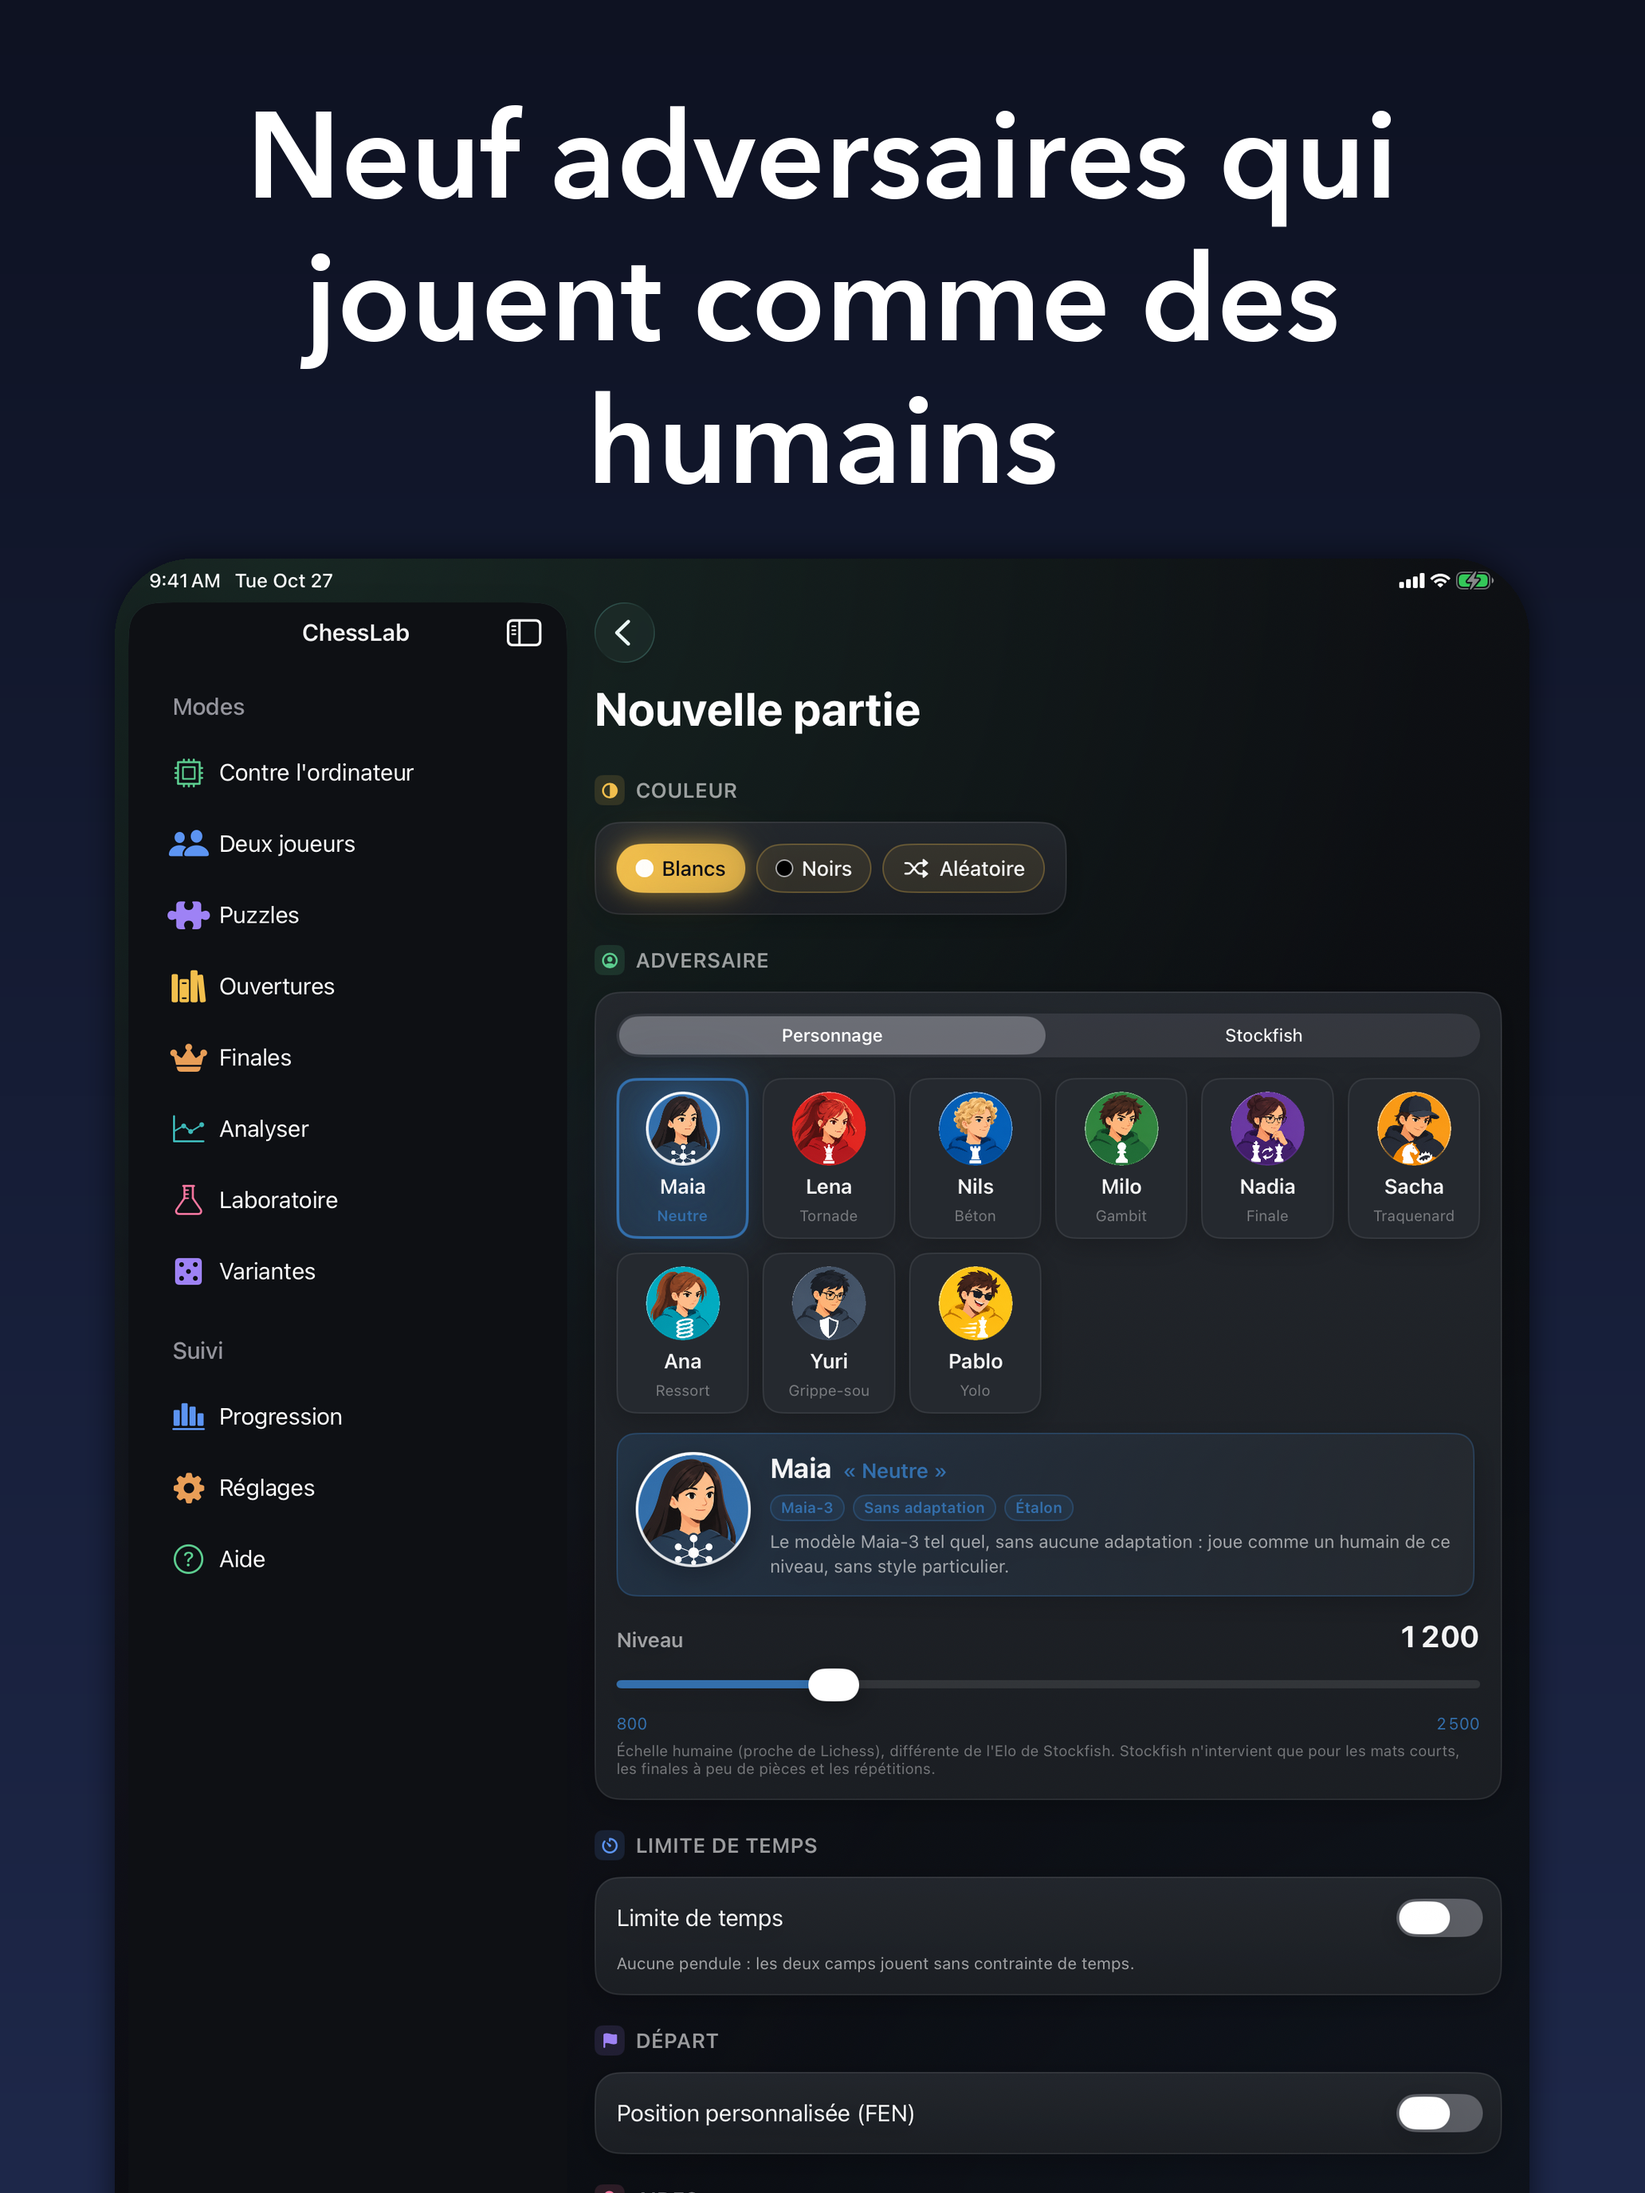
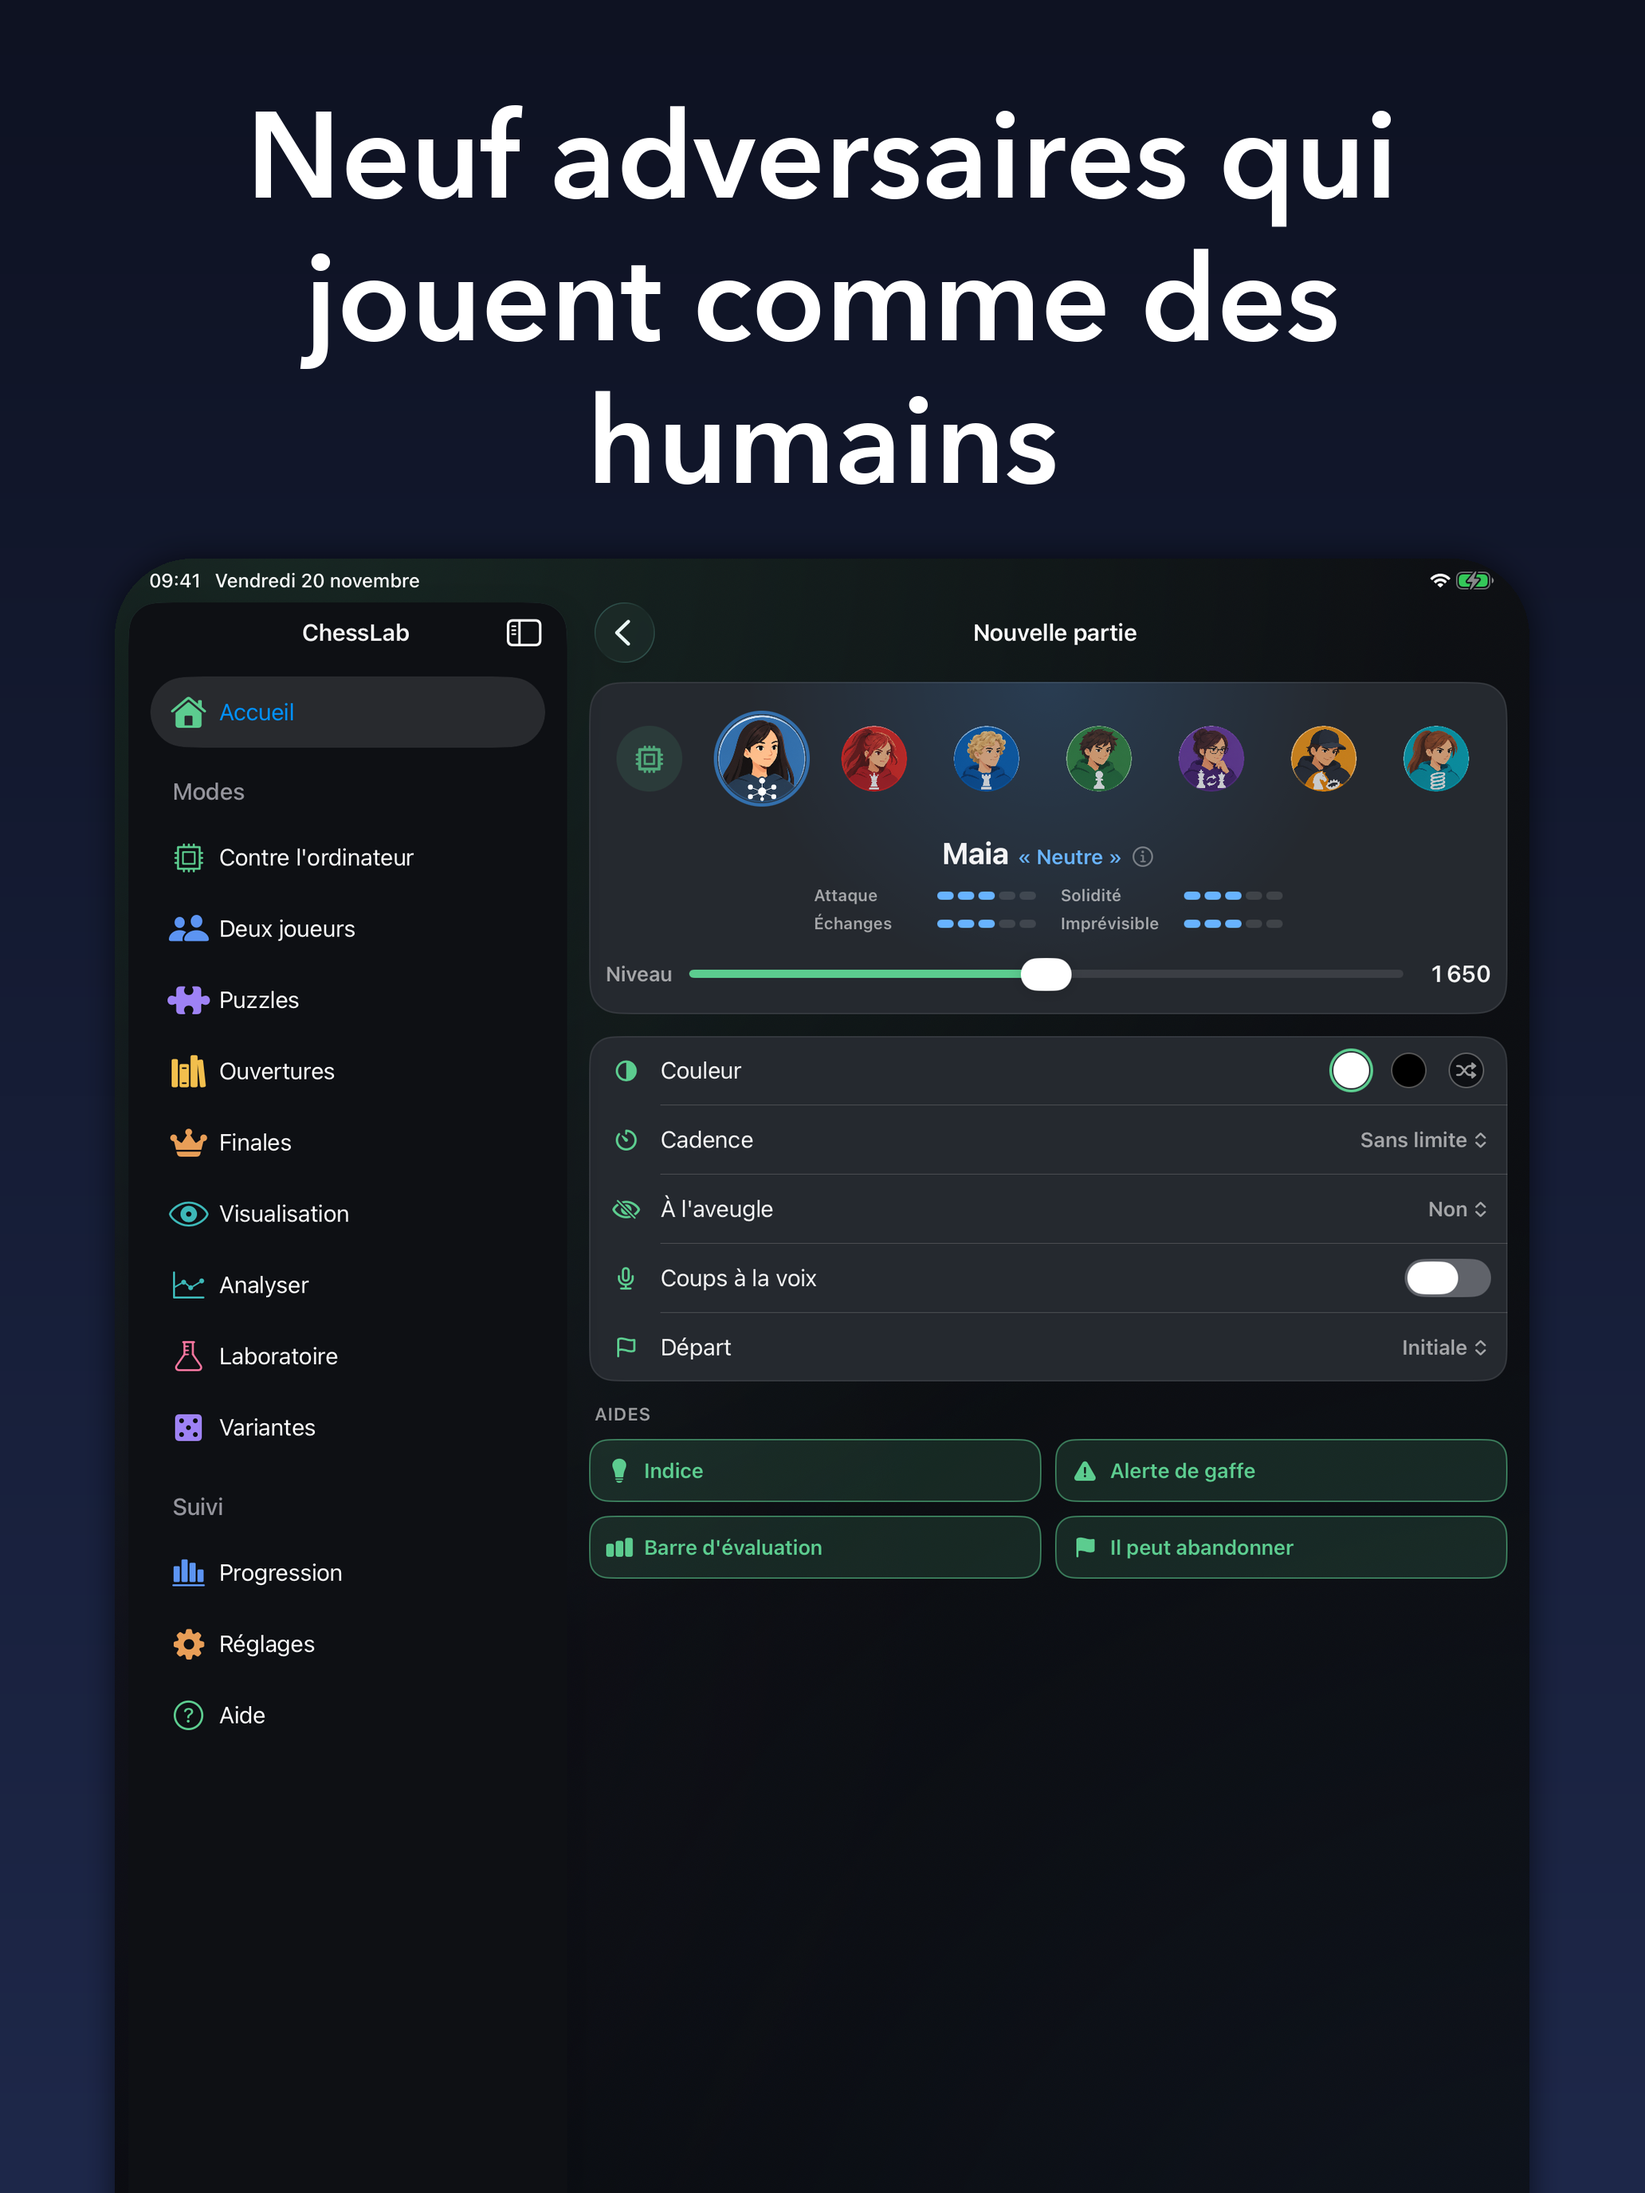
Fiche 2.4 : capture « 04-adversaires » refaite pour l'écran Nouvelle partie refondu (iPhone, iPad 13", Duo extérieur ; fr, en, es, de, it).
L'ancienne capture montrait l'écran d'avant la refonte du 18/11 (sections Couleur / Adversaire / Limite de temps). La nouvelle montre la bande de portraits, les quatre jauges, les menus et la ligne « Coups à la voix ». Prises par tools/captures-fiche.sh (route newGame) puis habillées par habiller-captures.py ; iPad remis à neuf et langue du système changée à chaque prise pour que la date de la barre d'état soit dans la langue ; Duo : écran extérieur désigné par son UUID.

Le simulateur Duo n'a pas de reconnaissance vocale en fr/it : la ligne « Coups à la voix » y paraissait grisée avec « Indisponible ». Ces captures (fr, de, it) ont été prises avec une construction de capture forçant « disponible » par un réglage de débogage, qui n'a PAS été commité ; en et es, où la reconnaissance existe, sont prises avec la construction normale.

Envoyées à App Store Connect (asc.py screenshots : 10 captures iPhone et 10 iPad dans les dix langues ; asc.py duo pour le Duo). Build 26 rattaché à la version 2.4, non soumise. Android : rien (version iOS).

Changed region(s): [[0.093, 0.25, 0.9302, 0.9688], [0.8372, 0.8438, 0.8992, 0.9062], [0.8372, 0.9375, 0.8992, 1.0]]

diff --git a/AppStoreSubmission/METADATA.md b/AppStoreSubmission/METADATA.md
@@ -492,7 +492,7 @@ Réponses déduites du code (vérifié, pas deviné) :
 
 ### Version et build
 
-**2.4, build 26** (le 25, téléversé le 19/11 sur TestFlight, est remplacé : il ne portait ni la fin de phrase lissée, ni l'essai anticipé, ni la pastille du micro, ni la ligne orange « Sous iOS 18… » ni les nouveautés 2.4 de l'Aide) — `MARKETING_VERSION = 2.4`, `CURRENT_PROJECT_VERSION = 26` (aux quatre configurations, app et extension de partage). La 2.3 (build 24) est en vente. Nouveautés détaillées dans `RELEASE_NOTES-2.4.md`.
+**2.4, build 26** (le 25, téléversé le 19/11 sur TestFlight, est remplacé : il ne portait ni la fin de phrase lissée, ni l'essai anticipé, ni la pastille du micro, ni la ligne orange « Sous iOS 18… » ni les nouveautés 2.4 de l'Aide) — `MARKETING_VERSION = 2.4`, `CURRENT_PROJECT_VERSION = 26` (aux quatre configurations, app et extension de partage). La 2.3 (build 24) est en vente. Nouveautés détaillées dans `RELEASE_NOTES-2.4.md`. **État au 20/11/2026 :** build 26 téléversé, traité et rattaché à la version 2.4 (PREPARE_FOR_SUBMISSION, NON soumise) ; il est aussi en TestFlight interne (groupe « Test ChessLab », distribution automatique). Captures « 04-adversaires » refaites (iPhone, iPad, Duo extérieur, cinq langues).
 
 **2.3, build 24** (le 23, téléversé le 14/11, est remplacé : il affichait « 2.3 » au-dessus des nouveautés 2.2 dans l'Aide) — `MARKETING_VERSION = 2.3`, `CURRENT_PROJECT_VERSION = 24` (aux quatre configurations, app et extension de partage ; la 2.2, build 22, est en vente : à revérifier par `asc.py build` avant l'archive). Nouveautés détaillées dans `RELEASE_NOTES-2.3.md`.
 

diff --git a/AppStoreSubmission/RELEASE_NOTES-2.4.md b/AppStoreSubmission/RELEASE_NOTES-2.4.md
@@ -19,7 +19,7 @@ Notes DÉTAILLÉES pour le dépôt. Les textes à coller dans App Store Connect 
 
 - Les textes es/de/it (fiche, aide, ligne orange) n'ont PAS été relus par un locuteur natif.
 - **Nouvelle autorisation** (micro, reconnaissance vocale) : décrite dans les notes de révision de `METADATA.md` ; la politique de confidentialité a une section « Le micro » (19/11).
-- Captures : seule « 04-adversaires » (écran Nouvelle partie) montrait un écran refait ; voir l'état dans `METADATA.md`.
+- Captures : seule « 04-adversaires » (écran Nouvelle partie, refondu) était périmée ; refaite le 20/11 pour l'iPhone, l'iPad et l'écran EXTÉRIEUR du Duo, dans les cinq langues (`tools/captures-fiche.sh`, `habiller-captures.py`). L'écran INTÉRIEUR du Duo (non pilotable) et les aperçus vidéo sont inchangés. Le simulateur Duo n'ayant pas de reconnaissance vocale en fr/it (ligne « Coups à la voix » grisée avec « Indisponible »), ces deux captures ont été prises avec une construction de capture forçant « disponible » (réglage de débogage, JAMAIS commité).
 - Pas vu à l'écran : la pastille du micro sur l'iPhone Duo replié (le plateau garde sa taille), la ligne orange.
 - Whisper a été étudié et laissé de côté (`tools/whisper-spike/README.md`) : rien dans l'app.
 
